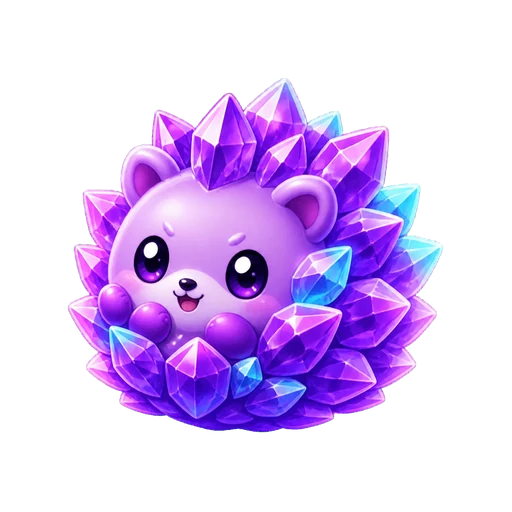
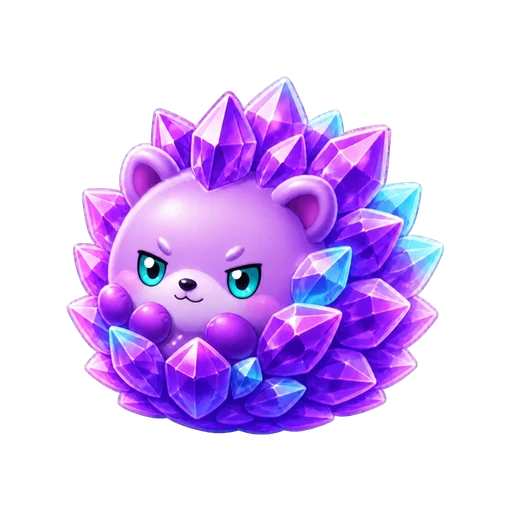
1.11 몬스터 4종 추가 — 얼음 펭귄 · 별빛 해파리 · 환영 고양이 · 달빛 늑대
기존 8종은 탭 / 스와이프 / 더블탭 / 홀드 4가지 제스처만 썼다.
새 4종은 각자 고유 행동 패턴을 갖는다.

  얼음 펭귄 (Lv.11, 희귀)   swipe-y · freeze-field
                          아레나를 얼려 시야를 좁힌다. 위로 밀어 얼음을 깬다.
  별빛 해파리 (Lv.12, 특수)  release-perfect · reward: combo
                          홀드 후 520~900ms 사이에 손을 떼면 +3 콤보.
  환영 고양이 (Lv.13, 영웅)  illusion
                          좌우 분신 2개를 띄우고, 본체를 찾아 탭해야 한다.
  달빛 늑대 (Lv.14, 영웅)    swipe-direction · predict-dash
                          이동 방향으로 잔상을 남기고, 그 방향으로 두 번 밀어야 한다.

  - 레벨 상한 10 -> 14. LEVEL_XP 에 3300/3950/4650/5400 추가.
  - 이동 로직을 rabbit 하드코딩에서 behavior 기반으로 일반화
    (teleport = 위치와 bornAt 갱신, predict-dash = 위치만 갱신하고 잔상 방향 기록).
  - completeGesture 에 forcePerfect 인자 추가 — 해파리 타이밍 판정용.
  - golem / hedgehog / mimic / owl 이미지 재출력.

diff --git a/src/pages/Game.jsx b/src/pages/Game.jsx
@@ -33,6 +33,7 @@ function makeEnemy(index = 0, randomize = false, allowedIds, occupied = []) {
     positionIndex,
     x: position.x + (Math.random() * 5 - 2.5),
     y: position.y + (Math.random() * 4 - 2),
+    swipeDirection: Math.random() > .5 ? 1 : -1,
   }
 }
 
@@ -151,13 +152,14 @@ export default function Game() {
       setEnemies((items) => {
         const occupied = new Set(items.map((enemy) => enemy.positionIndex))
         return items.map((enemy) => {
-          if (enemy.id !== 'rabbit' || Math.random() > .55) return enemy
+          const moves = enemy.behavior === 'teleport' || enemy.behavior === 'predict-dash'
+          if (!moves || Math.random() > (enemy.behavior === 'predict-dash' ? .72 : .55)) return enemy
           occupied.delete(enemy.positionIndex)
           const freeIndexes = POSITIONS.map((_, index) => index).filter((index) => !occupied.has(index))
           const positionIndex = freeIndexes[Math.floor(Math.random() * freeIndexes.length)] ?? enemy.positionIndex
           occupied.add(positionIndex)
           const position = POSITIONS[positionIndex]
-          return { ...enemy, positionIndex, x: position.x, y: position.y, bornAt: Date.now() }
+          return { ...enemy, positionIndex, x: position.x, y: position.y, swipeDirection: position.x >= enemy.x ? 1 : -1, bornAt: enemy.behavior === 'teleport' ? Date.now() : enemy.bornAt }
         })
       })
     }, 900)
@@ -186,14 +188,15 @@ export default function Game() {
     setTimeout(() => setEnemies((current) => [...current, makeEnemy(deadId, true, allowedMonsterIds, current.map((enemy) => enemy.positionIndex))]), 320)
   }
 
-  function completeGesture(target) {
+  function completeGesture(target, forcePerfect = false) {
     if (!playing || paused || !target) return
-    const quick = Date.now() - target.bornAt < target.escapeDuration * .45
-    const label = quick ? 'QUICK!' : 'NICE!'
+    const quick = forcePerfect || Date.now() - target.bornAt < target.escapeDuration * .45
+    const label = forcePerfect ? 'PERFECT!' : quick ? 'QUICK!' : 'NICE!'
     const multiplier = quick ? 1.3 : 1
     const damage = 1
     const remaining = target.hp - damage
-    const nextCombo = comboRef.current + (quick ? 2 : 1)
+    const comboGain = target.reward === 'combo' && forcePerfect ? 3 : quick ? 2 : 1
+    const nextCombo = comboRef.current + comboGain
     comboRef.current = nextCombo
     maxComboRef.current = Math.max(maxComboRef.current, nextCombo)
     const killed = remaining <= 0
@@ -226,6 +229,7 @@ export default function Game() {
       setCoins((value) => value + coinBonus)
       addEffect(target.x, target.y - 8, `+${coinBonus} COIN`, 'boss')
     }
+    if (target.reward === 'combo' && forcePerfect) addEffect(target.x, target.y - 8, '+3 COMBO', 'perfect')
 
     if (target.grade === '영웅' || target.grade === '보스') sound.rare()
     monsterCountsRef.current[target.id] = (monsterCountsRef.current[target.id] || 0) + 1
@@ -244,7 +248,7 @@ export default function Game() {
     if (!playing || paused) return
     event.preventDefault()
     event.currentTarget.setPointerCapture?.(event.pointerId)
-    pointerRef.current = { entityId: target.entityId, x: event.clientX, y: event.clientY, completed: false }
+    pointerRef.current = { entityId: target.entityId, x: event.clientX, y: event.clientY, downAt: Date.now(), completed: false }
     if (target.gesture === 'hold') {
       setHoldingId(target.entityId)
       holdTimerRef.current = setTimeout(() => {
@@ -254,6 +258,7 @@ export default function Game() {
         completeGesture(target)
       }, 620)
     }
+    if (target.gesture === 'release-perfect') setHoldingId(target.entityId)
   }
 
   function handlePointerUp(event, target) {
@@ -267,6 +272,7 @@ export default function Game() {
     const dx = event.clientX - pointer.x
     const dy = event.clientY - pointer.y
     const distance = Math.hypot(dx, dy)
+    const heldFor = Date.now() - pointer.downAt
     const hedgehogOpen = target.behavior !== 'guard-cycle' || isGuardOpen(target)
     if (!hedgehogOpen) {
       wrongGesture(target, '수정 가시가 내려갈 때 공격하세요', true)
@@ -274,6 +280,13 @@ export default function Game() {
     else if (target.gesture === 'swipe-x') {
       if (Math.abs(dx) >= 30 && Math.abs(dx) > Math.abs(dy)) completeGesture(target)
       else wrongGesture(target, `${target.name}은 좌우로 밀어주세요`)
+    } else if (target.gesture === 'swipe-y') {
+      if (dy <= -30 && Math.abs(dy) > Math.abs(dx)) completeGesture(target)
+      else wrongGesture(target, `${target.name}은 위로 밀어주세요`)
+    } else if (target.gesture === 'swipe-direction') {
+      const correctDirection = Math.abs(dx) >= 30 && Math.abs(dx) > Math.abs(dy) && Math.sign(dx) === target.swipeDirection
+      if (correctDirection) completeGesture(target)
+      else wrongGesture(target, `잔상이 향한 ${target.swipeDirection > 0 ? '오른쪽' : '왼쪽'}으로 밀어주세요`)
     } else if (target.gesture === 'double-tap') {
       const previous = lastTapRef.current[target.entityId] || 0
       if (Date.now() - previous <= 420 && distance < 16) {
@@ -284,6 +297,9 @@ export default function Game() {
         setLastJudge('한 번 더 빠르게 터치!')
         addEffect(target.x, target.y, 'ONE MORE!', 'good')
       }
+    } else if (target.gesture === 'release-perfect') {
+      if (heldFor >= 520 && heldFor <= 900) completeGesture(target, true)
+      else wrongGesture(target, heldFor < 520 ? '별빛이 모일 때까지 기다리세요' : '빛이 지나가기 전에 손을 떼세요')
     } else if (target.gesture === 'hold') wrongGesture(target, `${target.name}은 길게 눌러주세요`)
     pointerRef.current = null
   }
@@ -351,24 +367,28 @@ export default function Game() {
 
     <div className="battle-timebar"><span style={{ width: `${Math.min(100, (timeLeft / GAME_TIME) * 100)}%` }} /></div>
 
-    <section className={`battle-arena ${energy >= SKILL_MAX ? 'burst-ready' : ''}`}>
+    <section className={`battle-arena ${energy >= SKILL_MAX ? 'burst-ready' : ''} ${enemies.some((enemy) => enemy.behavior === 'freeze-field') ? 'frozen-field' : ''}`}>
       <img className="battle-background" src="/images/bg/battle-arena.webp" alt="" />
       <div className="battle-vignette" />
       <div className="gesture-legend"><span>TAP</span><span>↔ SWIPE</span><span>×2</span><span>HOLD</span></div>
 
       {enemies.map((enemy) => {
         const guardOpen = enemy.behavior !== 'guard-cycle' || isGuardOpen(enemy)
-        const cue = enemy.behavior === 'guard-cycle' ? (guardOpen ? 'TAP!' : 'WAIT') : enemy.cue
+        const cue = enemy.behavior === 'guard-cycle' ? (guardOpen ? 'TAP!' : 'WAIT') : enemy.behavior === 'predict-dash' ? (enemy.swipeDirection > 0 ? '→×2' : '←×2') : enemy.cue
         return <button
           key={`${enemy.entityId}-${enemy.bornAt}`}
           className={`battle-enemy gesture-${enemy.id} grade-${enemy.grade} ${guardOpen ? 'state-open' : 'state-guard'} hp-${enemy.hp} ${holdingId === enemy.entityId ? 'holding' : ''}`}
-          style={{ left: `${enemy.x}%`, top: `${enemy.y}%`, '--enemy-color': enemy.color, '--escape-duration': `${enemy.escapeDuration}ms` }}
+          style={{ left: `${enemy.x}%`, top: `${enemy.y}%`, '--enemy-color': enemy.color, '--escape-duration': `${enemy.escapeDuration}ms`, '--dash-direction': enemy.swipeDirection }}
           onPointerDown={(event) => handlePointerDown(event, enemy)}
           onPointerUp={(event) => handlePointerUp(event, enemy)}
           onPointerCancel={handlePointerCancel}
           aria-label={`${enemy.name}, ${enemy.hint}`}
         >
           <span className="action-cue">{cue}</span>
+          {enemy.behavior === 'illusion' && <>
+            <span className="illusion-clone clone-left" onPointerDown={(event) => { event.preventDefault(); event.stopPropagation(); wrongGesture(enemy, '분신이에요! 다이아 눈동자를 찾으세요', true) }}><MonsterImage monster={enemy} /></span>
+            <span className="illusion-clone clone-right" onPointerDown={(event) => { event.preventDefault(); event.stopPropagation(); wrongGesture(enemy, '분신이에요! 꼬리 룬을 확인하세요', true) }}><MonsterImage monster={enemy} /></span>
+          </>}
           <MonsterImage monster={enemy} />
           <span className="escape-bar"><i /></span>
           {enemy.maxHp > 1 && <span className="enemy-health"><i style={{ width: `${(enemy.hp / enemy.maxHp) * 100}%` }} /></span>}

diff --git a/src/lib/monsters.js b/src/lib/monsters.js
@@ -7,6 +7,10 @@ export const MONSTERS = [
   { id: 'mimic', name: '황금 미믹', grade: '특수', score: 100, weight: 3, hp: 1, speed: '매우 빠름', gesture: 'double-tap', cue: '×2', hint: '빠르게 두 번', reward: 'coins', noEscapePenalty: true, escapeDuration: 2200, image: '/images/monsters/mimic.webp', color: '#ffd45b', emoji: '▣', description: '아주 잠깐 모습을 드러내는 보물 몬스터. 처치하면 많은 코인을 획득합니다.' },
   { id: 'golem', name: '바위 골렘', grade: '영웅', score: 400, weight: 8, hp: 3, speed: '느림', gesture: 'tap', cue: '×3', hint: '세 번 터치', behavior: 'armored', escapeDuration: 7200, image: '/images/monsters/golem.webp', color: '#d66cff', emoji: '⬟', description: '단단한 몸을 세 번 공격해야 쓰러지는 작은 중간 보스입니다.' },
   { id: 'boss', name: '그림자 대왕', grade: '보스', score: 500, weight: 2, hp: 5, speed: '보통', gesture: 'hold', cue: 'HOLD', hint: '길게 누르기', escapeDuration: 9000, image: '/images/monsters/boss.webp', color: '#ff4fc8', emoji: '★', description: '어둠의 포털을 지배하는 강력한 보스. 여러 번 공격해야 처치할 수 있어요.' },
+  { id: 'penguin', name: '얼음 펭귄', grade: '희귀', score: 250, weight: 9, hp: 1, speed: '보통', gesture: 'swipe-y', cue: '↑', hint: '위로 밀어 얼음 깨기', behavior: 'freeze-field', escapeDuration: 5200, image: '/images/monsters/penguin.webp', color: '#8feaff', emoji: '❄', description: '사냥터를 얼려 시야를 좁힙니다. 위로 밀어 얼음을 깨면 효과가 사라집니다.' },
+  { id: 'jellyfish', name: '별빛 해파리', grade: '특수', score: 200, weight: 6, hp: 1, speed: '느림', gesture: 'release-perfect', cue: 'HOLD', hint: '빛이 모일 때 손 떼기', reward: 'combo', noEscapePenalty: true, escapeDuration: 5600, image: '/images/monsters/jellyfish.webp', color: '#79dcff', emoji: '✦', description: '별빛이 가장 밝아지는 순간에 손을 떼면 콤보 보너스를 얻습니다.' },
+  { id: 'cat', name: '환영 고양이', grade: '영웅', score: 350, weight: 6, hp: 1, speed: '빠름', gesture: 'tap', cue: 'FIND', hint: '다이아 눈동자 본체 터치', behavior: 'illusion', escapeDuration: 4600, image: '/images/monsters/cat.webp', color: '#ff67db', emoji: '◇', description: '가짜 분신 사이에서 다이아 눈동자와 꼬리 룬을 가진 본체를 찾아야 합니다.' },
+  { id: 'wolf', name: '달빛 늑대', grade: '영웅', score: 350, weight: 5, hp: 2, speed: '매우 빠름', gesture: 'swipe-direction', cue: '↔×2', hint: '잔상 방향으로 두 번 밀기', behavior: 'predict-dash', escapeDuration: 5000, image: '/images/monsters/wolf.webp', color: '#75dfff', emoji: '◐', description: '달빛 잔상을 보고 이동 방향을 예측해 두 번 공격해야 합니다.' },
 ]
 
 // 몬스터 이미지를 미리 디코딩해 두어, 첫 스폰 시 곧바로 표시되도록 합니다.

diff --git a/src/index.css b/src/index.css
@@ -1226,6 +1226,50 @@ button:focus-visible, input:focus-visible, textarea:focus-visible { outline: 3px
 }
 @keyframes resultMonsterFloat { 50% { transform: translateY(-6px); } }
 
+/* Advanced monster behaviors */
+.battle-arena.frozen-field::after {
+  content: '';
+  position: absolute;
+  z-index: 5;
+  inset: 0;
+  border: 10px solid rgba(177,241,255,.2);
+  background:
+    linear-gradient(135deg, rgba(207,249,255,.12), transparent 25% 70%, rgba(193,235,255,.12)),
+    radial-gradient(circle at 12% 18%, rgba(235,253,255,.2), transparent 18%);
+  box-shadow: inset 0 0 38px rgba(158,226,255,.26);
+  pointer-events: none;
+}
+.gesture-penguin .action-cue { color: #aef4ff; }
+.gesture-penguin img { filter: drop-shadow(0 0 9px rgba(139,233,255,.52)); }
+.gesture-jellyfish img { animation: specialMonsterFloat 1.45s ease-in-out infinite; }
+.gesture-jellyfish.holding::after {
+  animation-duration: .82s;
+  border-top-color: #fff3a1;
+  border-right-color: #7ee7ff;
+}
+.gesture-cat { z-index: 8; }
+.illusion-clone {
+  position: absolute;
+  z-index: 1;
+  width: 76%;
+  height: 76%;
+  display: block;
+  opacity: .42;
+  filter: grayscale(.55) hue-rotate(24deg);
+  pointer-events: auto;
+}
+.illusion-clone img { width: 100%; height: 100%; object-fit: contain; }
+.illusion-clone.clone-left { left: -48%; top: 17%; transform: rotate(-9deg); }
+.illusion-clone.clone-right { right: -48%; top: 17%; transform: rotate(9deg); }
+.gesture-cat > img { position: relative; z-index: 2; filter: drop-shadow(0 0 10px rgba(255,77,220,.5)); }
+.gesture-wolf {
+  transition: left .18s ease-out, top .18s ease-out, transform .15s, filter .15s;
+}
+.gesture-wolf > img {
+  filter: drop-shadow(calc(var(--dash-direction, 1) * -10px) 0 5px rgba(91,214,255,.32));
+}
+.gesture-wolf .action-cue { color: #94edff; }
+
 /* Reward screen: one clear vertical story */
 .result-step-2 .result-reward-card {
   margin-top: 22px;

diff --git a/src/lib/progression.js b/src/lib/progression.js
@@ -1,4 +1,4 @@
-export const LEVEL_XP = [0, 100, 250, 450, 700, 1000, 1350, 1750, 2200, 2700]
+export const LEVEL_XP = [0, 100, 250, 450, 700, 1000, 1350, 1750, 2200, 2700, 3300, 3950, 4650, 5400]
 
 export const LEVEL_UNLOCKS = {
   1: { title: '초보 사냥터', description: '말랑 슬라임 출현', monsters: ['slime'] },
@@ -11,9 +11,13 @@ export const LEVEL_UNLOCKS = {
   8: { title: '황금 미믹', description: '희귀한 코인 보물 몬스터가 출현합니다', monsters: ['mimic'] },
   9: { title: '바위 골렘', description: '세 번 공격해야 하는 강적이 출현합니다', monsters: ['golem'] },
   10: { title: '그림자 대왕', description: '그림자 대왕 보스전에 도전할 수 있어요', monsters: ['boss'], image: '/images/rewards/level-10-boss-challenge.webp' },
+  11: { title: '얼음 펭귄', description: '사냥터를 얼리는 몬스터가 출현합니다', monsters: ['penguin'] },
+  12: { title: '별빛 해파리', description: '정확한 타이밍으로 콤보 보너스를 노려보세요', monsters: ['jellyfish'] },
+  13: { title: '환영 고양이', description: '분신 속에서 진짜 본체를 찾아보세요', monsters: ['cat'] },
+  14: { title: '달빛 늑대', description: '잔상을 예측하는 상위 속도형 몬스터가 출현합니다', monsters: ['wolf'] },
 }
 
-const MONSTER_LEVEL = { slime: 1, rabbit: 3, fox: 5, owl: 6, hedgehog: 7, mimic: 8, golem: 9, boss: 10 }
+const MONSTER_LEVEL = { slime: 1, rabbit: 3, fox: 5, owl: 6, hedgehog: 7, mimic: 8, golem: 9, boss: 10, penguin: 11, jellyfish: 12, cat: 13, wolf: 14 }
 
 export function getLevel(xp = 0) {
   let level = 1
